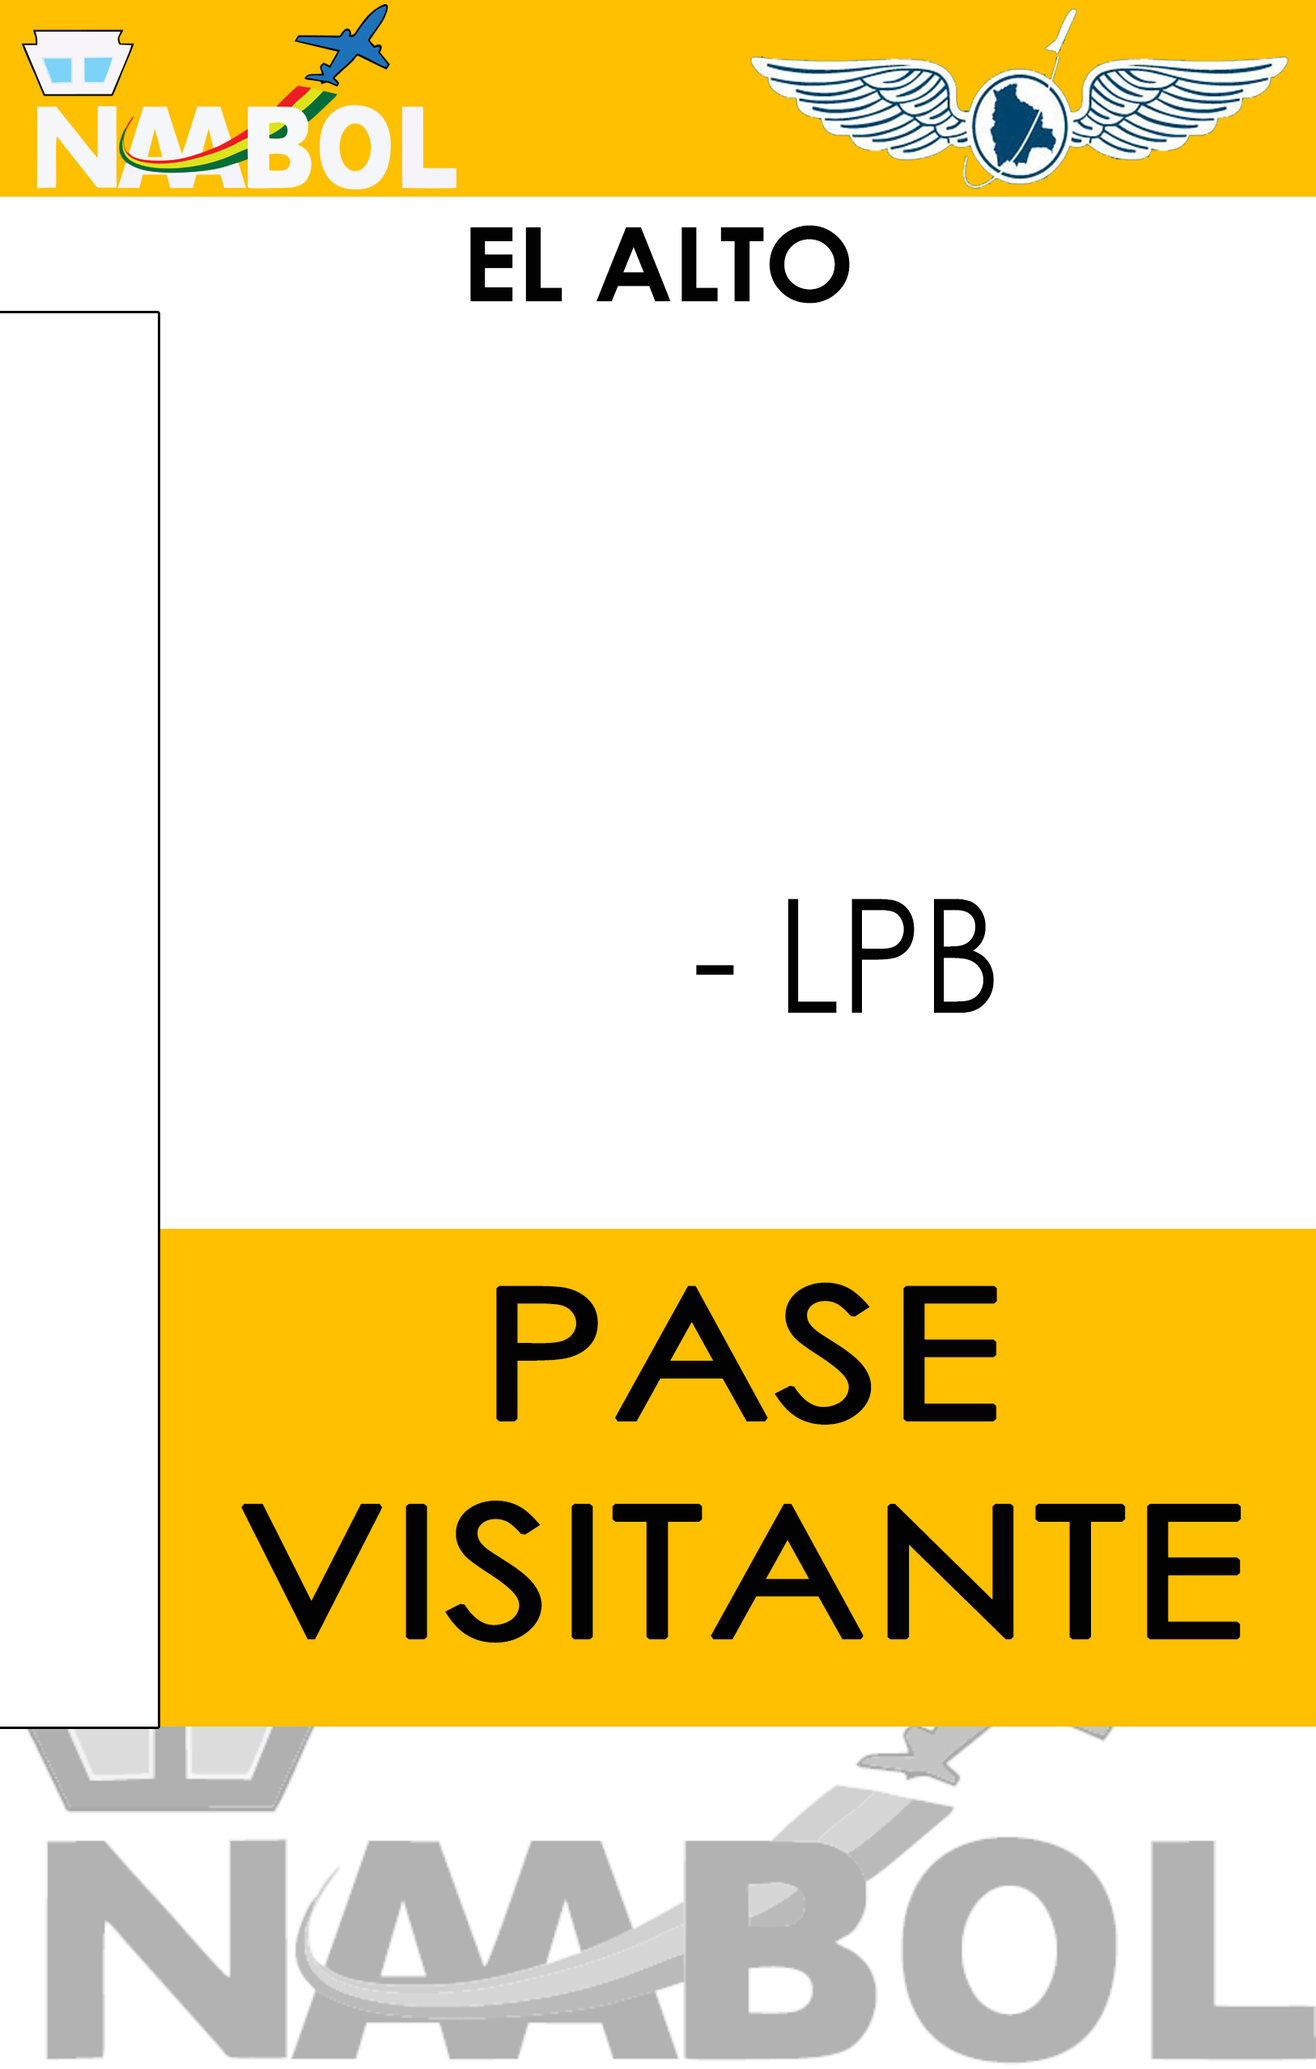
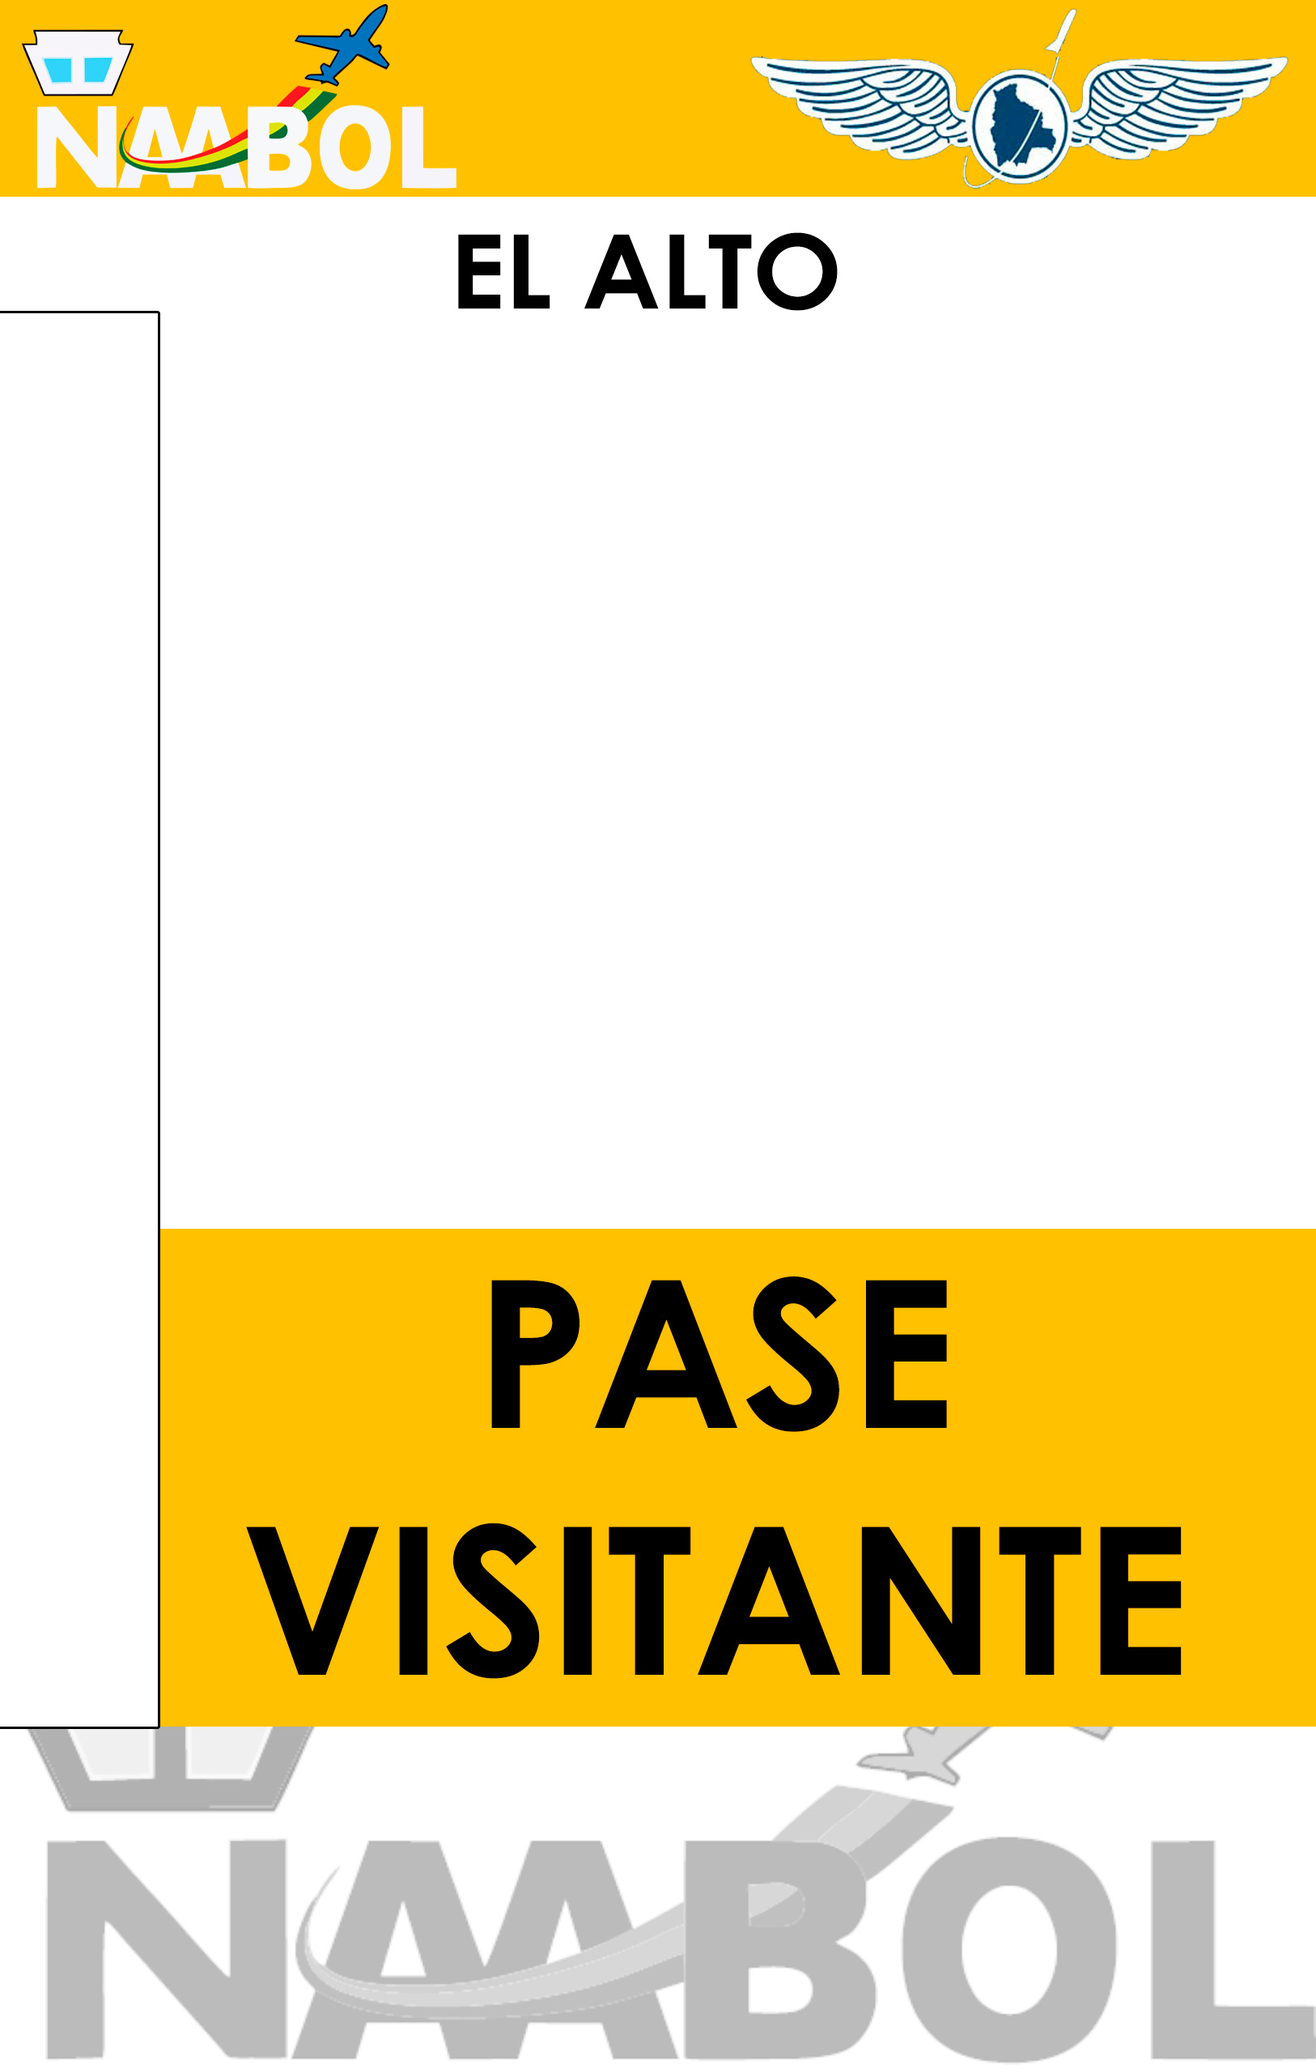
////

diff --git a/resources/js/credenciales_cv.js b/resources/js/credenciales_cv.js
@@ -17,16 +17,23 @@ function show_list_A(res) {
     $("#view_1_body").html(
         res
             .map(function (e) {
+                let r = '0';
+                console.log((e.Codigo));
+                console.log();
                 return (a = `
                 <tr>
-                    <td>${e.Codigo}</td>
+                    <td>${r.repeat(  4-(`${e.Codigo}`).length)}${e.Codigo}-${e.aeropuerto_2}</td>
                     <td>${e.CodigoTarjeta}</td>
                     <td>${e.CodMYFARE}</td>
                     <td>${e.AreasAut}</td>
                     <td>
                         <div class="table-actions">
-                            <a href="#" onclick="fun_credeEmp_emage(${e.idEmpleado})"><i class="ik ik-clipboard"></i></a>
-                            <a href="#" onclick="destroy_creden_visita(1,${e.idEmpleado})"><i class="ik ik-trash-2"></i></a>
+                            <a href="#" onclick="fun_credeEmp_emage(${
+                                e.idEmpleado
+                            })"><i class="ik ik-clipboard"></i></a>
+                            <a href="#" onclick="destroy_creden_visita(1,${
+                                e.idEmpleado
+                            })"><i class="ik ik-trash-2"></i></a>
                         </div>
                     </td>
                 </tr>

diff --git a/resources/views/credenciales/view_cv.blade.php b/resources/views/credenciales/view_cv.blade.php
@@ -27,7 +27,8 @@
                         <div class="col-lg-6">
                         </div>
                         <div class="col-lg-3">
-                            <button type="button" id="btn_credenCV_add_item" class="btn btn-primary mb-2 btn-block"><i class="fa fa-plus-circle"></i> Agregar </button>
+                            <button type="button" id="btn_credenCV_add_item" class="btn btn-primary mb-2 btn-block"><i
+                                    class="fa fa-plus-circle"></i> Agregar </button>
                         </div>
                     </div>
                 </div>
@@ -40,7 +41,7 @@
                                     <th>Cod ZK</th>
                                     <th>Cod MYFARE</th>
                                     <th>Areas</th>
-                                    <th width='20%'>Acciones</th>
+                                    <th width='5%'>Acciones</th>
                                 </tr>
                             </thead>
                             <tbody id="view_1_body">
@@ -52,16 +53,28 @@
         </div>
     </div>
 
-    <div class="modal fade" id="md_add_credenVis" tabindex="-1" role="dialog" aria-labelledby="demoModalLabel" aria-hidden="true">
+    <div class="modal fade" id="md_add_credenVis" tabindex="-1" role="dialog" aria-labelledby="demoModalLabel"
+        aria-hidden="true">
         <div class="modal-dialog  " role="document">
             <div class="modal-content">
                 <div class="modal-header">
                     <h5 class="modal-title" id="demoModalLabel">Nuevo Credencial</h5>
-                    <button type="button" class="close" data-dismiss="modal" aria-label="Close"><span aria-hidden="true">&times;</span></button>
+                    <button type="button" class="close" data-dismiss="modal" aria-label="Close"><span
+                            aria-hidden="true">&times;</span></button>
                 </div>
                 <div class="modal-body">
                     <form class="forms-sample" id="form_new_creden_visita">@csrf
                         <div class="form-group row ">
+                            <div class="col-sm-6">
+                                <div class="form-group small">
+                                    <select class="form-control form-bg-primary" name="ncv_aeropuerto">
+                                        <option value="LPB">EL ALTO</option>
+                                        <option value="CIJ">CAP. AV. ANIBAL ARAB FADUL</option>
+                                    </select>
+                                    <b>Aeropuerto </b>
+                                </div>
+                            </div>
+                            <div class=" col-sm-6"></div>
                             <div class="col-sm-6">
                                 <div class="form-group small">
                                     <input type="text" class="form-control" name="ncv_codt" required>
@@ -76,8 +89,15 @@
                             </div>
                             <div class="col-sm-6">
                                 <div class="form-group">
-                                    <input type="text" class="form-control" name="ncv_areas_acceso" pattern="[0-9_-]{8}" maxlength="8" required placeholder="#-#-##-#, 8 simbolos">
+                                    <input type="text" class="form-control" name="ncv_areas_acceso"
+                                        pattern="[0-9_-]{8}" maxlength="8" required placeholder="#-#-##-#, 8 simbolos">
                                     <b>Areas Autorizadas</b>
+                                </div>
+                            </div>
+                            <div class="col-sm-6">
+                                <div class="form-group">
+                                    <input type="date" class="form-control" name="ncv_fechaLimite" required>
+                                    <b>Fecha de expiración</b>
                                 </div>
                             </div>
                             <div class="modal-footer col-sm-12">
@@ -90,12 +110,14 @@
             </div>
         </div>
     </div>
-    <div class="modal fade" id="md_update_credencial" tabindex="-1" role="dialog" aria-labelledby="demoModalLabel" aria-hidden="true">
+    <div class="modal fade" id="md_update_credencial" tabindex="-1" role="dialog" aria-labelledby="demoModalLabel"
+        aria-hidden="true">
         <div class="modal-dialog modal-lg" role="document">
             <div class="modal-content">
                 <div class="modal-header">
                     <h5 class="modal-title" id="demoModalLabel">Nuevo Credencial</h5>
-                    <button type="button" class="close" data-dismiss="modal" aria-label="Close"><span aria-hidden="true">&times;</span></button>
+                    <button type="button" class="close" data-dismiss="modal" aria-label="Close"><span
+                            aria-hidden="true">&times;</span></button>
                 </div>
                 <div class="modal-body">
                     <form class="forms-sample" id="form_update_creden">@csrf
@@ -315,12 +337,14 @@
         </div>
     </div>
     <!-- modals -->
-    <div class="modal fade" id="md_add_photo" tabindex="-1" role="dialog" aria-labelledby="demoModalLabel" aria-hidden="true">
+    <div class="modal fade" id="md_add_photo" tabindex="-1" role="dialog" aria-labelledby="demoModalLabel"
+        aria-hidden="true">
         <div class="modal-dialog" role="document">
             <div class="modal-content">
                 <div class="modal-header">
                     <h5 class="modal-title" id="demoModalLabel">Cargar imagen</h5>
-                    <button type="button" class="close" data-dismiss="modal" aria-label="Close"><span aria-hidden="true">&times;</span></button>
+                    <button type="button" class="close" data-dismiss="modal" aria-label="Close"><span
+                            aria-hidden="true">&times;</span></button>
                 </div>
                 <div class="modal-body">
                     <div class="panel-body" id="myId" style="padding: 0;">
@@ -337,7 +361,8 @@
             </div>
         </div>
     </div>
-    <div class="modal fade" id="md_show_credencial_v" tabindex="-1" role="dialog" aria-labelledby="demoModalLabel" aria-hidden="true">
+    <div class="modal fade" id="md_show_credencial_v" tabindex="-1" role="dialog"
+        aria-labelledby="demoModalLabel" aria-hidden="true">
         <div class="modal-dialog modal-lg" role="document">
             <div class="modal-content">
                 <embed src="" type="" id="emb_sec_pdf_creden_v" width="1000" height="800">
@@ -345,7 +370,8 @@
         </div>
     </div>
     <!-- modal para delete item -->
-    <div class="modal fade" id="md_crevis_deleteConfirm" tabindex="-1" role="dialog" aria-labelledby="demoModalLabel" aria-hidden="true">
+    <div class="modal fade" id="md_crevis_deleteConfirm" tabindex="-1" role="dialog"
+        aria-labelledby="demoModalLabel" aria-hidden="true">
         <div class="modal-dialog" role="document">
             <div class="modal-content">
 
@@ -354,19 +380,22 @@
                 </div>
                 <div class="modal-footer">
                     <button type="button" class="btn btn-secondary" data-dismiss="modal">Cancelar</button>
-                    <button type="button" class="btn btn-primary" onclick="destroy_creden_visita(2,0)">Confirmar</button>
+                    <button type="button" class="btn btn-primary"
+                        onclick="destroy_creden_visita(2,0)">Confirmar</button>
                 </div>
             </div>
         </div>
     </div>
 
     <!-- Modal confirmar renovacion credencial -->
-    <div class="modal fade" id="mod_conf_renovacion" tabindex="-1" role="dialog" aria-labelledby="exampleModalCenterLabel" aria-hidden="true">
+    <div class="modal fade" id="mod_conf_renovacion" tabindex="-1" role="dialog"
+        aria-labelledby="exampleModalCenterLabel" aria-hidden="true">
         <div class="modal-dialog  modal-lg" role="document">
             <div class="modal-content">
                 <div class="modal-header">
                     <h5 class="modal-title" id="exampleModalCenterLabel"></h5>
-                    <button type="button" class="close" data-dismiss="modal" aria-label="Close"><span aria-hidden="true">&times;</span></button>
+                    <button type="button" class="close" data-dismiss="modal" aria-label="Close"><span
+                            aria-hidden="true">&times;</span></button>
                 </div>
                 <div class="modal-body">
                     <h5 id="text_creden_vigent"> <strong></strong></h5>
@@ -416,15 +445,18 @@
                             <div class="col-md-4">
                                 <div class="form-group">
                                     <label for="exampleInputEmail3">Codigo de nuevo credencial</label>
-                                    <input type="number" class="form-control" id="ren_cred_codigo" name="ren_cred_codigo" placeholder="###">
+                                    <input type="number" class="form-control" id="ren_cred_codigo"
+                                        name="ren_cred_codigo" placeholder="###">
                                 </div>
                             </div>
                         </div>
-                        <p>Nota: Una vez confirmado, la renovación estara registrada dentro la base de datos y sera expresada en el futuro credencial con la letra <strong>"D"</strong></p>
+                        <p>Nota: Una vez confirmado, la renovación estara registrada dentro la base de datos y sera
+                            expresada en el futuro credencial con la letra <strong>"D"</strong></p>
                     </form>
                 </div>
                 <div class="modal-footer">
-                    <button type="button" onclick="fun_renovar_creden(0,3)" class="btn btn-secondary" data-dismiss="modal">Cancelar</button>
+                    <button type="button" onclick="fun_renovar_creden(0,3)" class="btn btn-secondary"
+                        data-dismiss="modal">Cancelar</button>
                     <button type="button" onclick="fun_renovar_creden(0,2)" class="btn btn-primary">Aceptar</button>
                 </div>
             </div>
@@ -432,4 +464,4 @@
     </div>
 </div>
 
-<script src="{{ asset('resources/js/credenciales_cv.js')}}"></script>
+<script src="{{ asset('resources/js/credenciales_cv.js') }}"></script>

diff --git a/app/Http/Controllers/credvisitaController.php b/app/Http/Controllers/credvisitaController.php
@@ -3,6 +3,7 @@
 namespace App\Http\Controllers;
 
 use App\Models\Empleados;
+use Carbon\Carbon;
 use Illuminate\Http\Request;
 use Illuminate\Support\Facades\Auth;
 use PDF;
@@ -25,8 +26,9 @@ class credvisitaController extends Controller
                 'Empleados.CodigoTarjeta',
                 'Empleados.AreasAut',
                 'Empleados.CodMYFARE',
+                'Empleados.aeropuerto_2',
             )
-            ->orderBy('codigo', 'asc')
+            ->orderBy('Codigo', 'desc')
             ->get();
     }
     public function query_createCV(Request $request)
@@ -39,9 +41,11 @@ class credvisitaController extends Controller
         $new->CI = 0;
         $new->Tipo = 'V';
         $new->aeropuerto = $aero[session('aero')];
+        $new->aeropuerto_2 = $request->input('ncv_aeropuerto');
         $new->CodigoTarjeta = $request->input('ncv_codt');
         $new->CodMYFARE = $request->input('ncv_codMy');
         $new->AreasAut = $request->input('ncv_areas_acceso');
+        $new->Vencimiento = ($request->input('ncv_fechaLimite') == '') ? null :    Carbon::parse($request->input('nc_FNac'))->format('Y-d-m H:i:s');
         $res = $new->save();
         return $res;
     }
@@ -55,10 +59,26 @@ class credvisitaController extends Controller
             'Codigo',
             'AreasAut',
             'aeropuerto',
+            'aeropuerto_2',
+            'FechaVencCP',
         )->first();
+        switch (strlen($data['Codigo'])) {
+            case 1:
+                $data['Codigo'] = '000' . $data['Codigo'].'-'.$data['aeropuerto_2'];
+                break;
+            case 2:
+                $data['Codigo'] = '00' . $data['Codigo'].'-'.$data['aeropuerto_2'];
+                break;
+            case 3:
+                $data['Codigo'] = '0' . $data['Codigo'].'-'.$data['aeropuerto_2'];
+                break;
+        }
+        $meses = ['01' => 'ENE', '02' => 'FEB', '03' => 'MAR', '04' => 'ABR', '05' => 'MAY', '06' => 'JUN', '07' => 'JUL', '08' => 'AGO', '09' => 'SEP', '10' => 'OCT', '11' => 'NOV', '12' => 'DIC'];
+        $fe = Carbon::parse($data['Vencimiento']);
 
         $rutaimgV = [
             'LPB' => 'resources/plantilla/CREDENCIALESFOTOS/V-LPB.jpg',
+            'CIJ' => 'resources/plantilla/CREDENCIALESFOTOS/LPB-CIJ-VISITA.jpg',
             'CBB' => 'resources/plantilla/CREDENCIALESFOTOS/V-CBB.jpg',
             'VVI' => 'resources/plantilla/CREDENCIALESFOTOS/V-VVI.jpg',
         ];
@@ -66,8 +86,10 @@ class credvisitaController extends Controller
             'credenciales.pdf_creden_v',
             [
                 'data' => $data,
-                'ruta' => $rutaimgV[$data['aeropuerto']],
+                'ruta' => $rutaimgV[$data['aeropuerto_2']],
                 'aero' => $data['aeropuerto'],
+                'fecha' => $fe->format('d') . '-' . $meses[$fe->format('m')] . '-' . $fe->format('Y'),
+
 
             ]
         );

diff --git a/resources/views/credenciales/pdf_creden_emp_T2.blade.php b/resources/views/credenciales/pdf_creden_emp_T2.blade.php
@@ -69,6 +69,14 @@
             color: black;
             font-weight: bold;
         }
+        p.date {
+            position: fixed;
+            right: 75px;
+            top: 105px;
+            font-size: 30px;
+            color: black;
+            font-weight: bold;
+        }
 
 
         img.img_b {
@@ -114,8 +122,9 @@
         <!-- <img class="img_a" src="{{asset('resources/plantilla/CREDENCIALESFOTOS/LAPAZAMVERSO.jpg')}}"  alt=""> -->
         <img class="img_b" src="{{asset($data->urlphoto)}}" alt="">
         <!-- <p class="e">{{$M}}<br>{{$Y}}</p> -->
-        <p class="f">{{$data->Codigo}}</p>
-        <p class="a"> {{$data->Nombre}} <br>{{$data->Paterno}} {{$data->Materno}}<br>{{$data->Cargo}} <br>{{$data->Empresa}}</p>
+        <p class="date">{{$fecha}} asdfasdf</p>
+        <p class="f"> asdf{{$data->Codigo}}</p>
+        <p class="a"> {{$data->Nombres}} <br>{{$data->Paterno}} {{$data->Materno}}<br>{{$data->Cargo}} <br>{{$data->Empresa}}</p>
         <p class="b">{{$data->AreasAut}}</p>
         <p class="ci">{{$data->CI}}</p>
         <p class="per"><strong style="color: red ;"> @if($data->Herramientas != '') H @endif</strong> <br> @if($data->NroRenovacion != 0) D @endif</p>

diff --git a/resources/views/credenciales/pdf_creden_v.blade.php b/resources/views/credenciales/pdf_creden_v.blade.php
@@ -61,12 +61,22 @@
             font-weight: bold;
         }
 
-        p.f {
+        p.codigo {
             position: fixed;
-            right: 220px;
+            right: 100px;
             top: 235px;
             font-size: 60px;
             color: black;
+            font-weight: bold;
+            font-family: sans-serif;
+
+        }
+        p.date {
+            position: fixed;
+            right: 20px;
+            top: 100px;
+            font-size: 60px;
+            color: rgb(255, 0, 0);
             font-weight: bold;
             font-family: sans-serif;
 
@@ -115,7 +125,8 @@
     <div class="ri">
         <!-- <img class="img_a" src="{{asset('resources/plantilla/CREDENCIALESFOTOS/LAPAZAMVERSO.jpg')}}"  alt=""> -->
         <!-- <p class="e"><br></p> -->
-        <p class="f">{{$data->Codigo}}</p>
+        <p class="date">{{$fecha}}</p>
+        <p class="codigo">{{$data->Codigo}}</p>
         <p class="b">{{$data->AreasAut}}</p>
         <p class="per"><strong style="color: red ;"></strong> <br> </p>
         <div style="page-break-after:always;"></div>

diff --git a/app/Http/Controllers/credencialesController.php b/app/Http/Controllers/credencialesController.php
@@ -213,6 +213,7 @@ class credencialesController extends Controller
             $empr= substr($empr, 0, 18) . '...';
         }
         $fe = Carbon::parse($data['Vencimiento']);
+        $dfecha = $fe->format('d');
         $mfecha = $fe->format('m');
         $afecha = $fe->format('Y');
         $meses = ['01' => 'ENE', '02' => 'FEB', '03' => 'MAR', '04' => 'ABR', '05' => 'MAY', '06' => 'JUN', '07' => 'JUL', '08' => 'AGO', '09' => 'SEP', '10' => 'OCT', '11' => 'NOV', '12' => 'DIC'];
